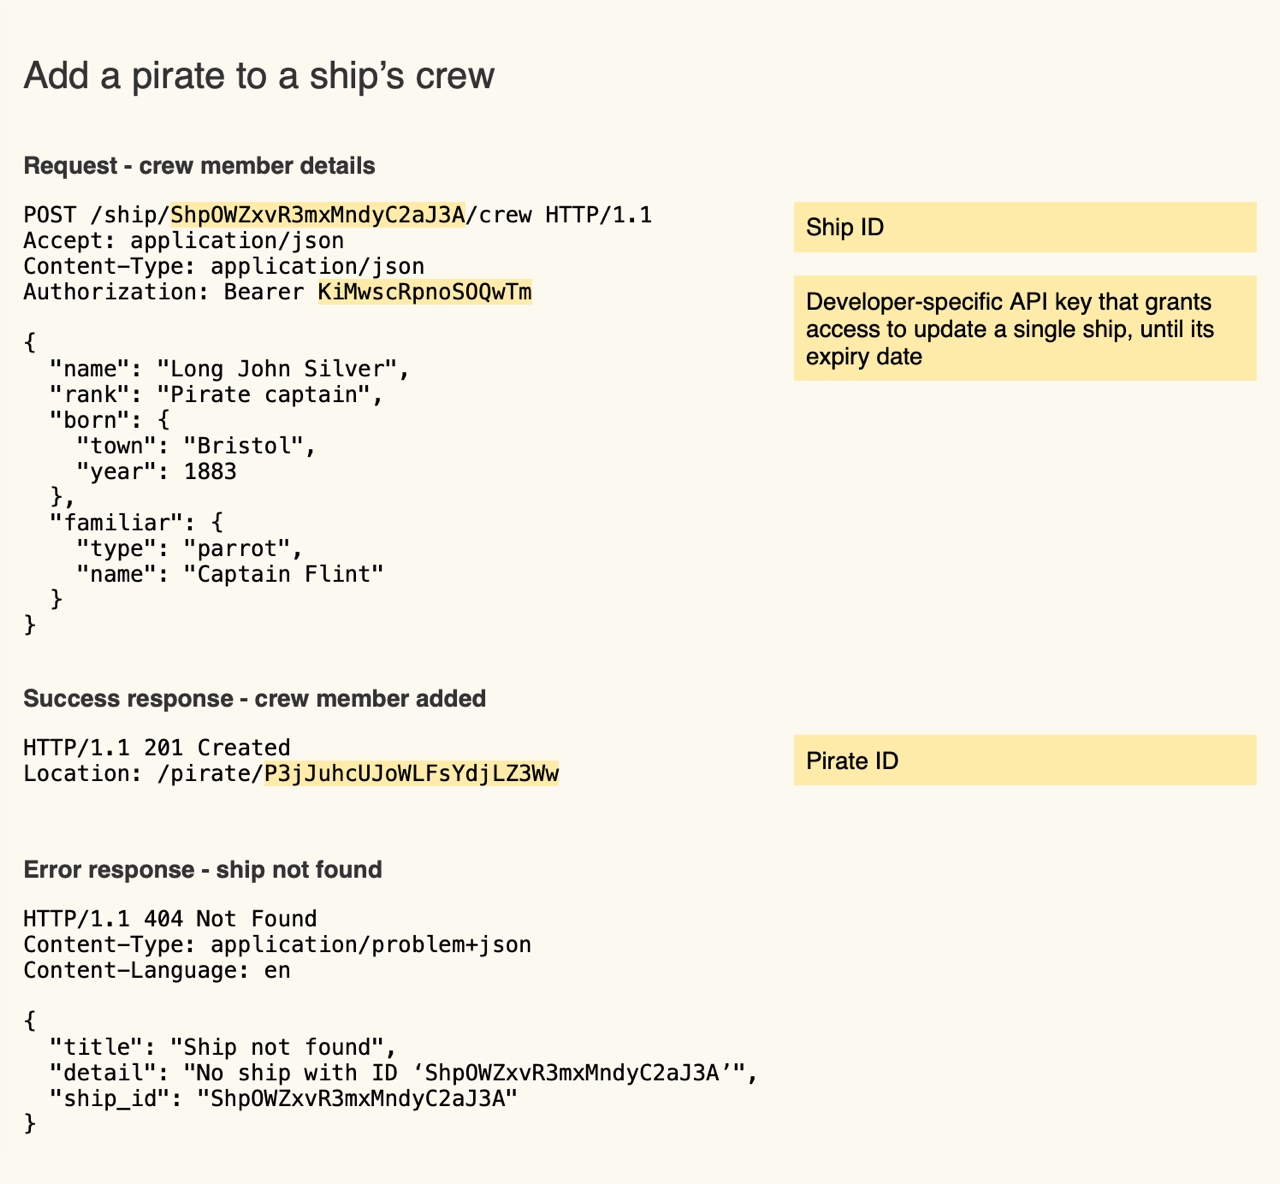
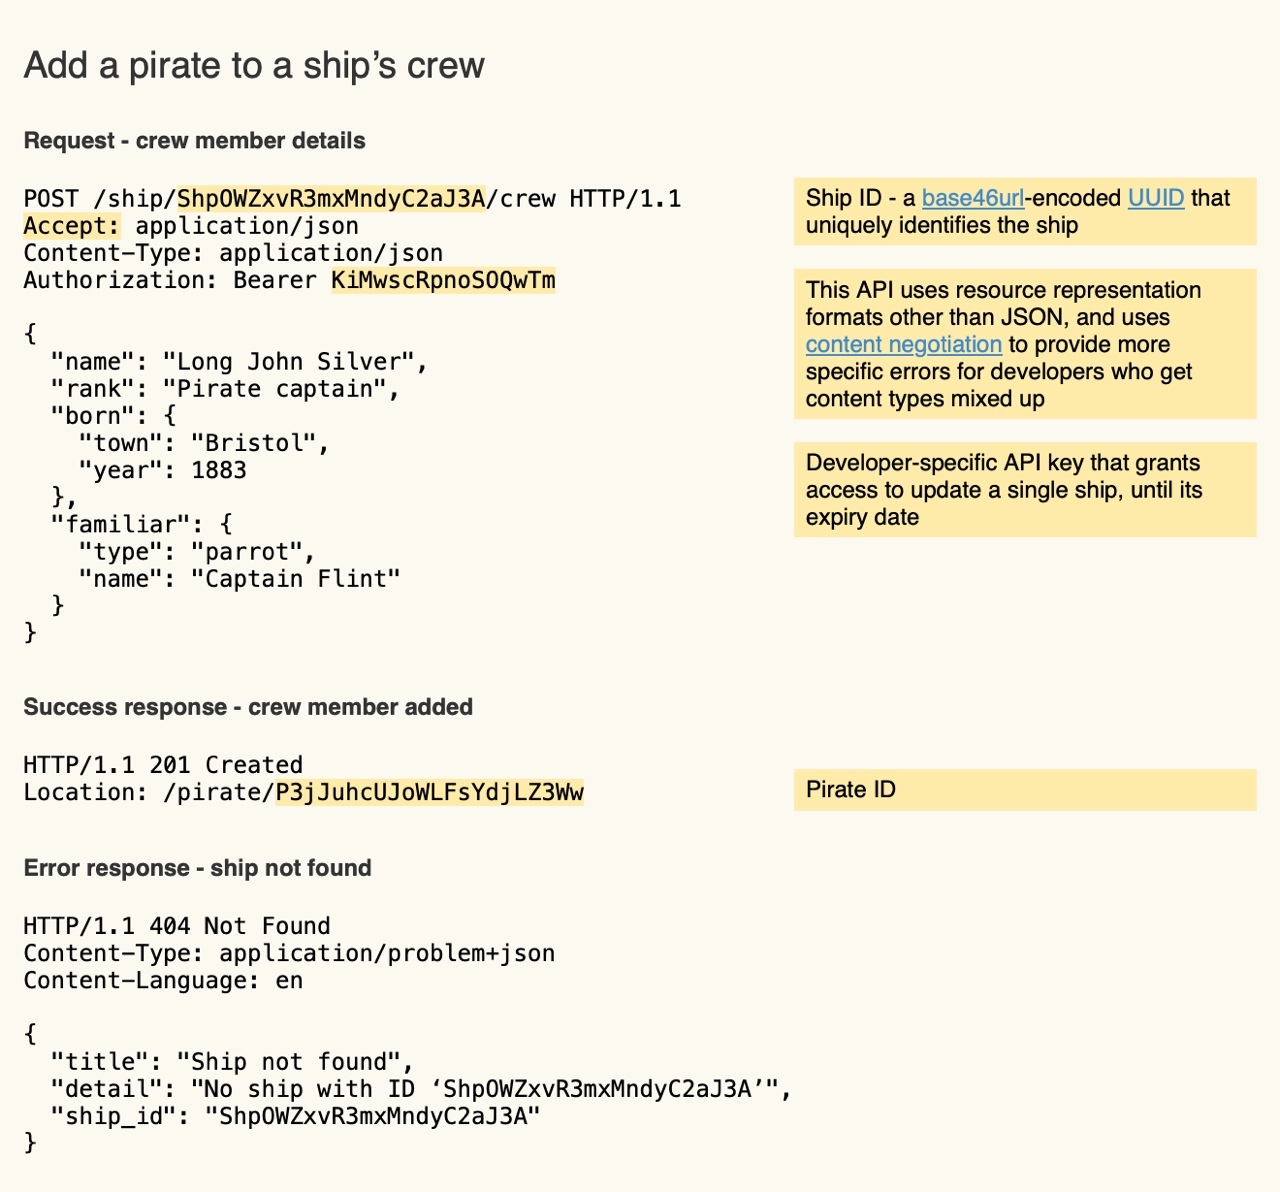
Add blog post

diff --git a/blog/api/pirates-artisanal.html b/blog/api/pirates-artisanal.html
@@ -6,12 +6,13 @@
 <style>
 /* Layout */
 html { padding:2em; }
-article { padding:1em; max-width:53em; }
+article { padding:0.5em 1em; max-width:53em; }
 section { position:relative; z-index:1; }
 section div {
   margin-bottom:1em; display:grid; grid-template-columns: 0.618fr 1em 0.382fr;
   position:relative; z-index:3;
 }
+h2 { margin-bottom: 0.5em }
 h3 { grid-column-start:span 3; }
 pre { margin:0; grid-column-start:1; grid-column-end:1; padding-top:0.4em; }
 aside { grid-column-start:3; grid-column-end:3;  }
@@ -48,7 +49,7 @@ a, a:visited { color:#428bca; }
 <div class="request">
 <h3>Request - crew member details</h3>
 <pre><code class="lang-http">POST /ship/<a class="definition-anchor" href="#ship-id">ShpOWZxvR3mxMndyC2aJ3A</a>/crew HTTP/1.1
-Accept: application/json
+<a class="definition-anchor" href="#content-negotiation">Accept:</a> application/json
 Content-Type: application/json
 Authorization: Bearer <a class="definition-anchor" href="#api-key">KiMwscRpnoSOQwTm</a>
 
@@ -68,6 +69,7 @@ Authorization: Bearer <a class="definition-anchor" href="#api-key">KiMwscRpnoSOQ
 
 <aside>
 <dfn id="ship-id">Ship ID - a <a href="https://www.rfc-editor.org/rfc/rfc4648#section-5">base46url</a>-encoded <a href="https://en.wikipedia.org/wiki/Universally_unique_identifier">UUID</a> that uniquely identifies the ship</dfn>
+<dfn id="content-negotiation">This API uses resource representation formats other than JSON, and uses <a href="https://developer.mozilla.org/en-US/docs/Web/HTTP/Content_negotiation">content negotiation</a> to provide more specific errors for developers who get content types mixed up</dfn>
 <dfn id="api-key">Developer-specific API key that grants access to update a single ship, until its expiry date</dfn>
 </aside>  
 </div>

diff --git a/style/hh.css b/style/hh.css
@@ -68,7 +68,7 @@ body.writing a.unsplash svg { height:12px; width:auto; position:relative; vertic
 body.writing a.photocredit, body.writing a.license { padding:4px 6px; display:inline-block; border-radius:3px; }
 body.writing code { padding: 0.1em 0.2em 0 0.2em; }
 
-body.writing .series { float:right; margin:0 1em 1em 1em; width:16em; padding:1em; border-radius:0.5em; }
+body.writing .series { float:right; margin:0 0 1em 1em; width:16em; padding:1em; border-radius:0.5em; }
 body.writing .series li { margin-left:1.4em; }
 body.writing .series:before { content:'This article appears in a series:'; display:block; margin-bottom:0.5em; }
 

diff --git a/blog/_posts/2023-01-10-api-docs-annotations-html.md b/blog/_posts/2023-01-10-api-docs-annotations-html.md
@@ -1,0 +1,103 @@
+---
+title: API documentation annotations in HTML
+description: Rendering annotations in HTML, CSS and canvas
+layout: hh
+tags: API documentation
+---
+
+{:.series}
+1. [Backwards API docs](api-docs-backwards)
+2. [Annotation styles](annotations)
+3. [API docs annotations](api-docs-annotations)
+4. Annotations in HTML
+
+Previously in this series, [Technical documentation annotations](annotations)
+argued for directly annotating examples, to make explanations disconnected,
+[API docs annotations](api-docs-annotations) explored how that might look for HTTP API documentation.
+The following hypothetical example illustrates the key idea of arrows from example data to their explanations.
+
+![Direct annotations on fake API docs](api/api.webp)
+
+This mock-up came from a drawing and layout tool that made it straightforward to draw by hand.
+To use this layout in practice, though, readers would want this documentation on the web.
+
+## HTML
+
+HTML and CSS make most of the layout straightforward.
+The following HTML example uses the same colours, with a 
+[CSS grid](https://developer.mozilla.org/en-US/docs/Web/CSS/CSS_Grid_Layout) layout.
+
+![Annotations without arrows](api/pirates-artisanal.webp)
+
+This already looks useful, but also makes illustrates where the annotations stop working.
+The first three annotation highlights appear too close together in the example on the left, and the second explanation on the right occupies too much vertical space, so they no longer line up horizontally.
+The example’s `Authorization` header’s bearer token does not obviously relate to its definition as a _Developer-specific API key_.
+The same effects occurs in Google Docs and Notion, when a heavily-commented document’s side
+
+Programmers tend to solve problems like this with machine-readable references and links.
+While explicit references work, you get a better reader experience (RX?) with a more human solution.
+Instead, do what you’d do on a whiteboard: draw an arrow.
+
+## HTML div element border
+
+CSS provides the most straightforward ways to add visuals to rendered HTML documents.
+In CSS, you can draw a line by adding a top border to an otherwise invisible absolutely-positioned `div` element.
+
+![Annotations with horizontal arrows](api/pirates-artisanal-div.webp)
+
+This example
+([HTML/CSS source](https://github.com/hilton/hilton.github.com/blob/master/blog/api/pirates-artisanal-div.html))
+adds a top border to three otherwise invisible absolutely-positioned `div` elements:
+
+```css
+.line { z-index:2; position:absolute; border-top:0.3em solid; }
+```
+
+```html
+<div class="line" style="top: 7.5em; left: 6.4em; width:27em" id="line-ship-id"></div>
+<div class="line" style="top:10.8em; left:12.8em; width:21em" id="line-api-key"></div>
+<div class="line" style="top:31.9em; left:10.5em; width:23em" id="line-pirate-id"></div>
+```
+
+In practice, you would use JavaScript to calculate each line’s position and length.
+However, when vertical spaces pushes annotations down, in the right column, you would need diagonal lines.
+You could render a diagonal line by using a CSS transform to rotate the line’s `div` element.
+Instead, let’s try a solution that doesn’t require trigonometry.
+
+## Canvas
+
+The [Canvas API](https://developer.mozilla.org/en-US/docs/Web/API/Canvas_API)
+promises an easier way to draw arrows on an HTML page than, say, 
+[SVG](https://developer.mozilla.org/en-US/docs/Web/SVG).
+Drawing a straight yellow line between `start` and `end` points requires the following JavaScript.
+
+```javascript
+const canvas = document.getElementById("canvas")
+const context = canvas.getContext("2d")
+context.lineWidth = 3
+context.strokeStyle = '#FFEBA9'
+
+const path = new Path2D()
+path.moveTo(start.x, start.y)
+path.lineTo(end.x, end.y)
+context.stroke(path)
+```
+
+To use this, you need coordinates of each highlighted element’s centre point:
+
+```javascript
+const start = document.getElementById("ship-id")
+const width = element.offsetWidth
+const height = element.offsetHeight
+const x = element.offsetLeft + (width / 2)
+const y = element.offsetTop + (height / 2)
+
+const x = element.offsetLeft + (element.offsetWidth / 2)
+const y = element.offsetTop + (element.offsetHeight / 2)
+```
+
+The resulting arrows nicely connect the highlighted example text (left) with its explanation (right):
+
+![Annotations with diagonal arrows](api/pirates-artisanal-canvas.webp)
+
+Note that this required using the famously-tricky CSS `z-index` property to draw the arrow behind the example text, to avoid obscuring it, and in front of the background colour.
